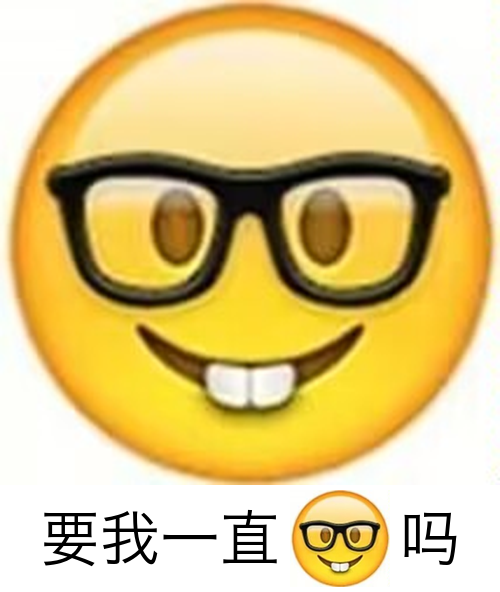
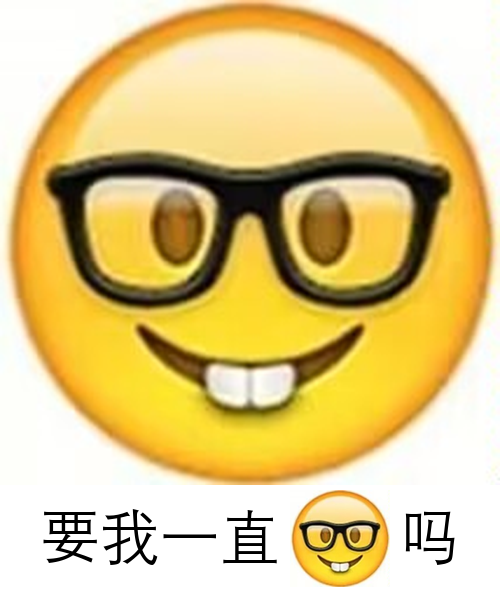
specific the font

Changed region(s): [[0.09, 0.8514, 0.42, 0.973], [0.81, 0.8514, 0.93, 0.973], [0.45, 0.8514, 0.57, 0.9426]]

diff --git a/emoji_generator/emoji_normal.py b/emoji_generator/emoji_normal.py
@@ -38,12 +38,14 @@ def always(image: Image) -> Image:
         (20, height_large + 5, 280, height_large + height_small + 5),
         '要我一直',
         halign='right',
+        fontname='./Deng.ttf',
         max_fontsize=60
     )
     result.draw_text(
         (400, height_large + 5, 480, height_large + height_small + 5),
         '吗',
         halign='left',
+        fontname='./Deng.ttf',
         max_fontsize=60
     )
     return result.image
